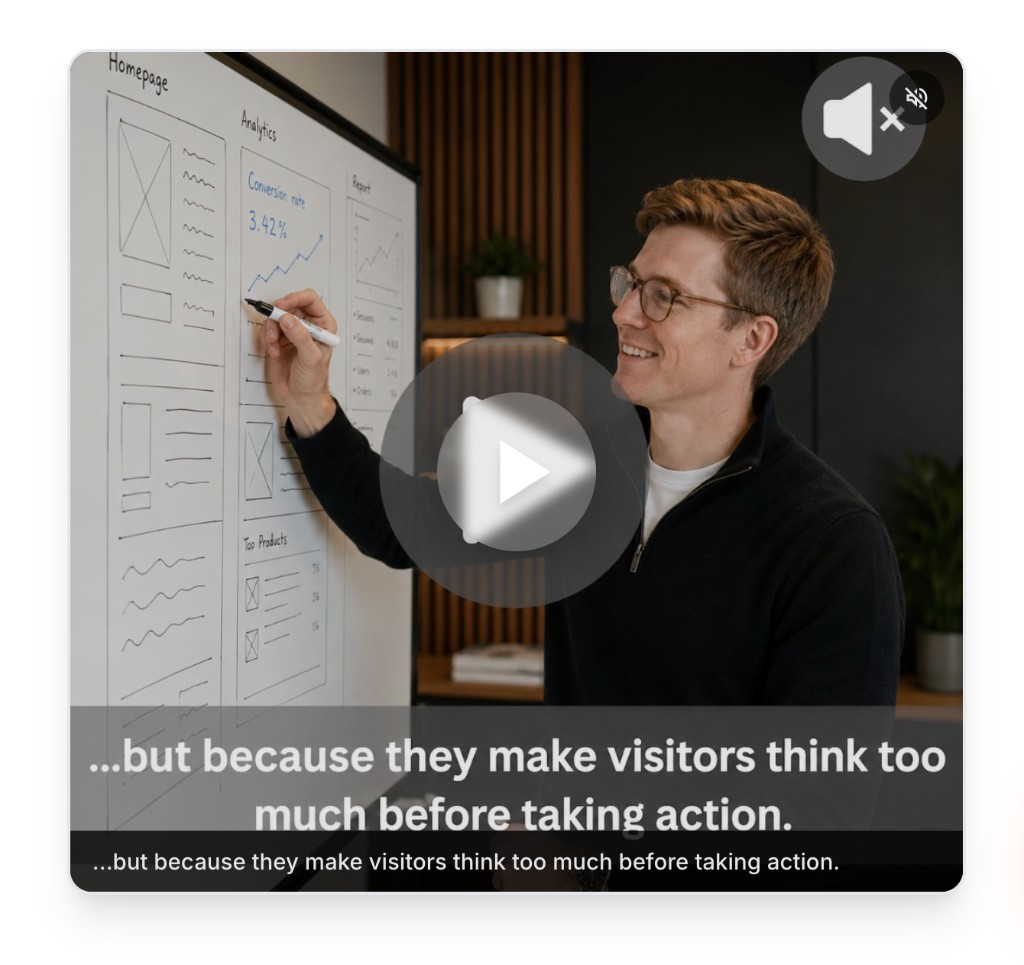
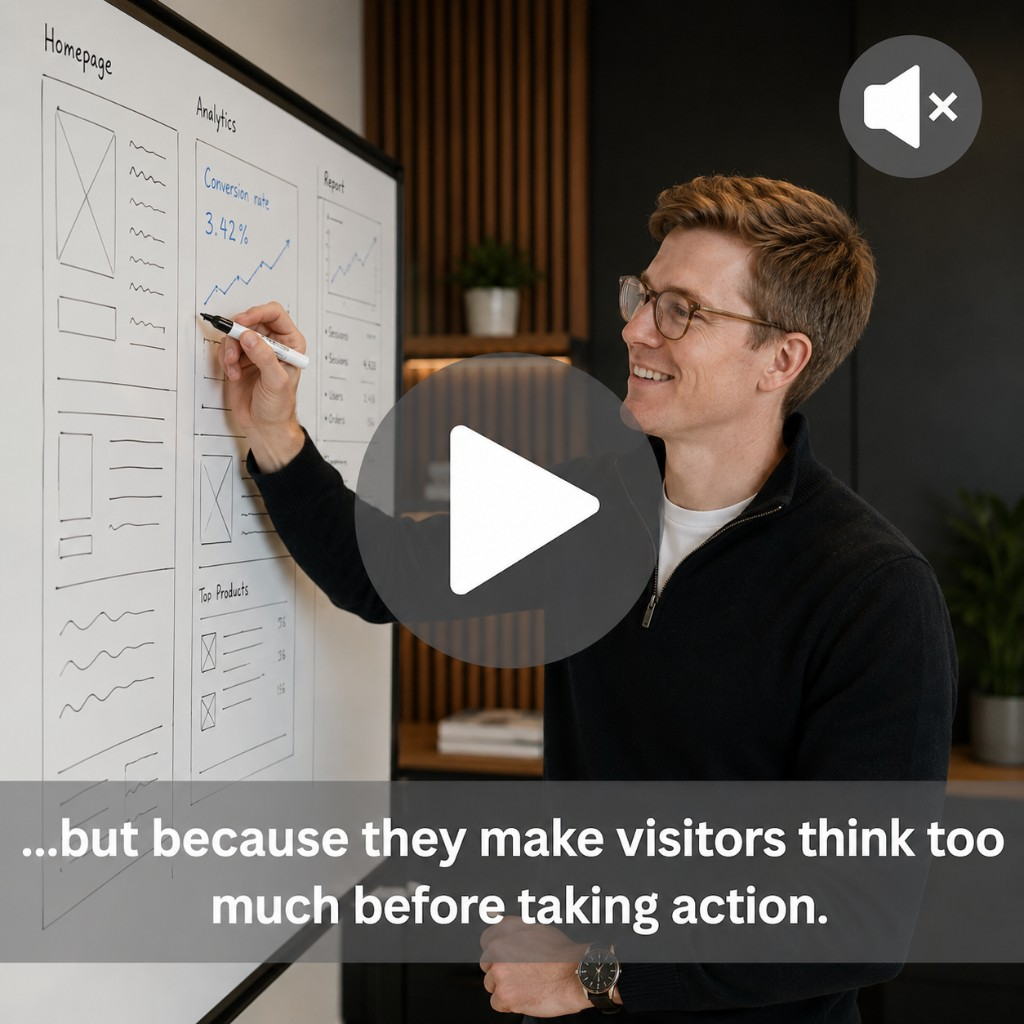
update

diff --git a/app/templates/cro_ebook_vsl_gated.html b/app/templates/cro_ebook_vsl_gated.html
@@ -17,6 +17,12 @@
       Free CRO Audit Walkthrough: How We Find Funnel Leaks | Sparksmetrics
     </title>
     <link rel="icon" type="image/svg+xml" href="/static/favicon.svg" />
+    <link
+      rel="preload"
+      as="image"
+      href="{{ url_for('static', filename='images/vsl-free-cro-video-hero-800.webp') }}"
+      type="image/webp"
+    />
     <link href="https://fonts.googleapis.com" rel="preconnect" />
     <link crossorigin href="https://fonts.gstatic.com" rel="preconnect" />
     <link
@@ -352,14 +358,14 @@
     <!-- End Google Tag Manager (noscript) -->
     {% endif %}
     {% set vsl_video_poster = 'images/vsl-free-cro-video-hero.png' %}
+    {% set vsl_video_poster_webp = 'images/vsl-free-cro-video-hero-800.webp' %}
+    {% set vsl_video_poster_thumb_webp = 'images/vsl-free-cro-video-hero-320.webp' %}
     {% set vsl_video_poster_alt = 'CRO walkthrough: conversion analytics and funnel fixes' %}
-    {% set vsl_video_poster_mobile = 'images/youtube_thumbnails/vsl-free-cro-audit-poster.png' %}
-    {% set vsl_video_poster_mobile_alt = 'How we found $312,000 for a Shopify store' %}
     <section class="bg-white py-12 md:py-16 border-b border-gray-100" id="hero">
       <div class="max-w-7xl mx-auto px-6">
         <div class="grid lg:grid-cols-2 gap-10 lg:gap-14 items-center lg:items-start">
           <div class="order-2 lg:order-1 h-full" id="hero-vsl-shell">
-            {% with vsl_responsive_hero=true, vsl_baked_poster_ui=true, vsl_poster_mobile=vsl_video_poster_mobile, vsl_poster_desktop=vsl_video_poster, vsl_poster_alt_mobile=vsl_video_poster_mobile_alt, vsl_poster_alt_desktop=vsl_video_poster_alt %}{% include 'includes/_vsl_youtube_gated.html' %}{% endwith %}
+            {% with vsl_responsive_hero=true, vsl_baked_poster_ui=true, vsl_wrap_class='w-full overflow-hidden rounded-2xl', vsl_poster_desktop=vsl_video_poster, vsl_poster_desktop_webp=vsl_video_poster_webp, vsl_poster_alt_desktop=vsl_video_poster_alt %}{% include 'includes/_vsl_youtube_gated.html' %}{% endwith %}
           </div>
           <div class="order-1 lg:order-2">
             <div id="hero-copy-to-cta">
@@ -459,7 +465,7 @@
             <div class="logo-item" role="listitem">
               <img
                 class="logo-img"
-                src="{{ url_for('static', filename='images/logos/alle.png') }}"
+                src="{{ url_for('static', filename='images/optimized/logos/alle-48.webp') }}"
                 alt="Alle"
                 loading="lazy"
                 decoding="async"
@@ -469,7 +475,7 @@
             <div class="logo-item" role="listitem">
               <img
                 class="logo-img"
-                src="{{ url_for('static', filename='images/logos/canopy.png') }}"
+                src="{{ url_for('static', filename='images/optimized/logos/canopy-48.webp') }}"
                 alt="Canopy"
                 loading="lazy"
                 decoding="async"
@@ -480,7 +486,7 @@
             <div class="logo-item" role="listitem">
               <img
                 class="logo-img"
-                src="{{ url_for('static', filename='images/logos/argenx.png') }}"
+                src="{{ url_for('static', filename='images/optimized/logos/argenx-48.webp') }}"
                 alt="Argenx"
                 loading="lazy"
                 decoding="async"
@@ -491,7 +497,7 @@
             <div class="logo-item" role="listitem">
               <img
                 class="logo-img"
-                src="{{ url_for('static', filename='images/logos/lpc.png') }}"
+                src="{{ url_for('static', filename='images/optimized/logos/lpc-48.webp') }}"
                 alt="Le Petit Chef"
                 loading="lazy"
                 decoding="async"
@@ -502,7 +508,7 @@
             <div class="logo-item" role="listitem">
               <img
                 class="logo-img"
-                src="{{ url_for('static', filename='images/logos/outdoor-research.png') }}"
+                src="{{ url_for('static', filename='images/optimized/logos/outdoor-research-48.webp') }}"
                 alt="Outdoor Research"
                 loading="lazy"
                 decoding="async"
@@ -513,7 +519,7 @@
             <div class="logo-item" role="listitem">
               <img
                 class="logo-img"
-                src="{{ url_for('static', filename='images/logos/edikted.png') }}"
+                src="{{ url_for('static', filename='images/optimized/logos/edikted-48.webp') }}"
                 alt="Edikted"
                 loading="lazy"
                 decoding="async"
@@ -524,7 +530,7 @@
             <div class="logo-item" role="listitem">
               <img
                 class="logo-img"
-                src="{{ url_for('static', filename='images/logos/vacation-renter.png') }}"
+                src="{{ url_for('static', filename='images/optimized/logos/vacation-renter-48.webp') }}"
                 alt="Vacation Renter"
                 loading="lazy"
                 decoding="async"
@@ -535,7 +541,7 @@
             <div class="logo-item" role="listitem">
               <img
                 class="logo-img"
-                src="{{ url_for('static', filename='images/logos/client-2.png') }}"
+                src="{{ url_for('static', filename='images/optimized/logos/client-2-48.webp') }}"
                 alt="TUSHY"
                 loading="lazy"
                 decoding="async"
@@ -617,15 +623,21 @@
         <figure
           class="rounded-2xl border border-gray-200 shadow-lg bg-white overflow-hidden mb-10"
         >
-          <img
-            src="{{ url_for('static', filename='images/cro-deck-v2/steps/step-04-ux-review-spinelli.png') }}"
-            alt="Full-funnel CRO audit example for Spinelli Kilcollin"
-            class="block w-full h-auto"
-            loading="lazy"
-            decoding="async"
-            width="2692"
-            height="1084"
-          />
+          <picture>
+            <source
+              srcset="{{ url_for('static', filename='images/cro-deck-v2/steps/step-03-ux-review-nooktales-720.webp') }}"
+              type="image/webp"
+            />
+            <img
+              src="{{ url_for('static', filename='images/cro-deck-v2/steps/step-03-ux-review-nooktales.png') }}"
+              alt="Full-funnel CRO audit example for Nooktales"
+              class="block w-full h-auto"
+              loading="lazy"
+              decoding="async"
+              width="720"
+              height="404"
+            />
+          </picture>
         </figure>
         <h2 class="text-4xl md:text-5xl mb-4 text-deep-charcoal text-center">
           What You'll See Inside This
@@ -1580,20 +1592,27 @@
           </p>
         </div>
         <div class="grid md:grid-cols-2 lg:grid-cols-3 gap-6 md:gap-8">
-          {% for slug, case in case_studies_list %}
+          {% for slug, case in case_studies_list[:3] %}
           <div
             class="rounded-3xl overflow-hidden bg-white border border-gray-200 shadow-sm p-0"
           >
             <div class="h-56 overflow-hidden">
               {% if case.main_image %}
-              <img
-                alt="{{ case.card_title|default(case.result_headline) }}"
-                class="w-full h-full object-cover"
-                src="{{ url_for('static', filename=case.main_image) }}"
-                loading="lazy"
-                width="400"
-                height="224"
-              />
+              <picture>
+                <source
+                  srcset="{{ url_for('static', filename=case.main_image|replace('.jpg', '-800.webp')) }}"
+                  type="image/webp"
+                />
+                <img
+                  alt="{{ case.card_title|default(case.result_headline) }}"
+                  class="w-full h-full object-cover"
+                  src="{{ url_for('static', filename=case.main_image) }}"
+                  loading="lazy"
+                  decoding="async"
+                  width="400"
+                  height="224"
+                />
+              </picture>
               {% endif %}
             </div>
             <div class="p-8">
@@ -1670,12 +1689,21 @@
               <div
                 class="absolute inset-0 bg-black/20 blur-2xl group-hover:scale-110 transition-transform"
               ></div>
-              <img
-                alt="{{ vsl_video_poster_alt }}"
-                class="relative rounded-lg shadow-2xl transform rotate-3 group-hover:rotate-0 transition-transform duration-500"
-                src="{{ url_for('static', filename=vsl_video_poster) }}"
-                loading="lazy"
-              />
+              <picture>
+                <source
+                  srcset="{{ url_for('static', filename=vsl_video_poster_thumb_webp) }}"
+                  type="image/webp"
+                />
+                <img
+                  alt="{{ vsl_video_poster_alt }}"
+                  class="relative rounded-lg shadow-2xl transform rotate-3 group-hover:rotate-0 transition-transform duration-500"
+                  src="{{ url_for('static', filename=vsl_video_poster) }}"
+                  loading="lazy"
+                  decoding="async"
+                  width="320"
+                  height="320"
+                />
+              </picture>
             </div>
           </div>
         </div>
@@ -1855,7 +1883,7 @@
           var shell = document.getElementById("hero-vsl-shell");
           if (!copy || !shell) return;
           var wrap = shell.querySelector(".vsl-gated-responsive-hero");
-          if (!wrap || wrap.classList.contains("is-playing")) return;
+          if (!wrap || wrap.classList.contains("is-playing") || wrap.classList.contains("vsl-gated-baked-ui")) return;
           if (window.matchMedia("(min-width: 1024px)").matches) {
             wrap.style.setProperty("--hero-vsl-height", copy.offsetHeight + "px");
             wrap.classList.add("vsl-hero-height-ready");

diff --git a/app/templates/includes/_vsl_youtube_gated.html b/app/templates/includes/_vsl_youtube_gated.html
@@ -18,12 +18,32 @@
 {% set vsl_show_poster_copy = vsl_show_poster_copy|default(true) %}
 {% set vsl_baked_poster_ui = vsl_baked_poster_ui|default(false) %}
 <div
-  class="vsl-gated-wrap vsl-youtube-wrap w-full bg-black overflow-hidden relative group {{ vsl_wrap_class }}{% if vsl_responsive_hero %} vsl-gated-responsive-hero{% if vsl_baked_poster_ui %} vsl-gated-baked-ui{% endif %}{% elif vsl_vertical %} vsl-gated-vertical{% elif vsl_ebook_hero %} vsl-gated-ebook{% else %} aspect-video{% endif %}"
+  class="vsl-gated-wrap vsl-youtube-wrap w-full overflow-hidden relative group {{ vsl_wrap_class }}{% if vsl_baked_poster_ui %} bg-transparent{% else %} bg-black{% endif %}{% if vsl_responsive_hero %} vsl-gated-responsive-hero{% if vsl_baked_poster_ui %} vsl-gated-baked-ui{% endif %}{% elif vsl_vertical %} vsl-gated-vertical{% elif vsl_ebook_hero %} vsl-gated-ebook{% else %} aspect-video{% endif %}"
   data-youtube-id="{{ vsl_youtube_id }}"
   data-video-id="{{ vsl_analytics_id }}"
 >
   <div class="vsl-youtube-poster-wrap absolute inset-0 z-[1]">
     {% if vsl_responsive_hero %}
+    {% if vsl_baked_poster_ui %}
+    <picture>
+      {% if vsl_poster_desktop_webp %}
+      <source
+        srcset="{{ url_for('static', filename=vsl_poster_desktop_webp) }}?v=5"
+        type="image/webp"
+      />
+      {% endif %}
+      <img
+        src="{{ url_for('static', filename=vsl_poster_desktop) }}?v=4"
+        alt="{{ vsl_poster_alt_desktop }}"
+        class="vsl-youtube-poster vsl-poster-desktop absolute inset-0 w-full h-full object-cover object-center"
+        loading="eager"
+        fetchpriority="high"
+        decoding="async"
+        width="800"
+        height="800"
+      />
+    </picture>
+    {% else %}
     <img
       src="{{ url_for('static', filename=vsl_poster_mobile) }}"
       alt="{{ vsl_poster_alt_mobile }}"
@@ -34,7 +54,7 @@
       height="506"
     />
     <img
-      src="{{ url_for('static', filename=vsl_poster_desktop) }}"
+      src="{{ url_for('static', filename=vsl_poster_desktop) }}?v=4"
       alt="{{ vsl_poster_alt_desktop }}"
       class="vsl-youtube-poster vsl-poster-desktop absolute inset-0 w-full h-full object-cover object-center hidden lg:block"
       loading="eager"
@@ -42,6 +62,7 @@
       width="1024"
       height="1024"
     />
+    {% endif %}
     {% if not vsl_baked_poster_ui %}
     <div class="vsl-youtube-poster-copy lg:hidden">
       <p class="vsl-poster-headline">
@@ -74,7 +95,7 @@
   </div>
   <button
     type="button"
-    class="vsl-youtube-play absolute inset-0 z-10 flex items-center justify-center {% if vsl_baked_poster_ui %}max-lg:bg-black/25 max-lg:hover:bg-black/35{% else %}bg-black/25 hover:bg-black/35{% endif %} transition-colors cursor-pointer group/play"
+    class="vsl-youtube-play absolute inset-0 z-10 flex items-center justify-center {% if vsl_baked_poster_ui %}bg-transparent hover:bg-black/5{% else %}bg-black/25 hover:bg-black/35{% endif %} transition-colors cursor-pointer group/play"
     aria-label="Play 4-minute CRO audit video"
     data-vsl-gated-play
     {% if vsl_modal_trigger == 'audit' %}
@@ -90,14 +111,16 @@
     {% endif %}
     {{ vsl_gate_modal_attrs|default('')|safe }}
   >
+    {% if not vsl_baked_poster_ui %}
     <span
-      class="vsl-play-icon{% if vsl_baked_poster_ui %} vsl-play-icon-mobile-only{% endif %} w-16 h-16 sm:w-20 sm:h-20 md:w-24 md:h-24 rounded-full bg-primary flex items-center justify-center shadow-[0_0_40px_rgba(255,77,0,0.5)] hover:scale-110 transition-transform"
+      class="vsl-play-icon w-16 h-16 sm:w-20 sm:h-20 md:w-24 md:h-24 rounded-full bg-primary flex items-center justify-center shadow-[0_0_40px_rgba(255,77,0,0.5)] hover:scale-110 transition-transform"
     >
       <span
         class="material-symbols-outlined play-filled text-white text-3xl sm:text-4xl md:text-5xl ml-1"
         >play_arrow</span
       >
     </span>
+    {% endif %}
   </button>
   <div
     class="vsl-youtube-iframe absolute inset-0 hidden w-full h-full z-[2]"

diff --git a/app/templates/includes/_vsl_youtube_player_styles.html b/app/templates/includes/_vsl_youtube_player_styles.html
@@ -85,23 +85,40 @@
     max-width: 100%;
     width: 100%;
   }
+  .vsl-gated-baked-ui .vsl-youtube-play {
+    background: transparent !important;
+  }
+  .vsl-gated-baked-ui .vsl-youtube-play:hover {
+    background: rgba(0, 0, 0, 0.04) !important;
+  }
+  .vsl-gated-baked-ui .vsl-play-icon,
+  .vsl-gated-baked-ui .vsl-youtube-poster-copy {
+    display: none !important;
+  }
+  .vsl-gated-baked-ui .vsl-poster-desktop {
+    filter: blur(0.6px);
+  }
   @media (min-width: 1024px) {
-    .vsl-gated-baked-ui .vsl-poster-desktop {
-      filter: blur(0.4px);
-      object-fit: contain;
-      object-position: center;
+    .vsl-gated-baked-ui.vsl-gated-responsive-hero {
+      height: auto !important;
+      min-height: 0;
+      aspect-ratio: 1 / 1;
+      box-shadow: none !important;
+      border: none !important;
+      background: transparent !important;
     }
-    .vsl-gated-baked-ui .vsl-youtube-play {
+    .vsl-gated-baked-ui .vsl-youtube-poster-wrap {
       background: transparent;
     }
-    .vsl-gated-baked-ui .vsl-youtube-play:hover {
-      background: rgba(0, 0, 0, 0.05);
+    .vsl-gated-baked-ui .vsl-poster-desktop {
+      object-fit: cover;
+      object-position: center;
     }
-    .vsl-gated-baked-ui .vsl-play-icon-mobile-only {
-      display: none;
-    }
-    .vsl-gated-baked-ui .vsl-youtube-poster-copy {
-      display: none !important;
+  }
+  @media (max-width: 1023px) {
+    .vsl-gated-baked-ui.vsl-gated-responsive-hero {
+      aspect-ratio: 1 / 1;
+      background: transparent !important;
     }
   }
   @media (min-width: 1024px) {

diff --git a/app/templates/includes/_lead_modal_vsl_simple.html b/app/templates/includes/_lead_modal_vsl_simple.html
@@ -23,14 +23,21 @@
       <div
         class="relative bg-black shrink-0 w-full sm:w-[38%] sm:max-w-[240px] aspect-[9/16] sm:aspect-auto sm:min-h-[380px] max-h-[200px] sm:max-h-none overflow-hidden"
       >
-        <img
-          src="{{ url_for('static', filename=vsl_video_poster|default('images/vsl-free-cro-video-hero.png')) }}"
-          alt="{{ vsl_video_poster_alt|default('Shopify conversion analytics walkthrough with Stijn Wollerich') }}"
-          class="absolute inset-0 w-full h-full object-cover object-center"
-          loading="lazy"
-          width="681"
-          height="1024"
-        />
+        <picture>
+          <source
+            srcset="{{ url_for('static', filename=vsl_video_poster_thumb_webp|default('images/vsl-free-cro-video-hero-320.webp')) }}"
+            type="image/webp"
+          />
+          <img
+            src="{{ url_for('static', filename=vsl_video_poster|default('images/vsl-free-cro-video-hero.png')) }}"
+            alt="{{ vsl_video_poster_alt|default('Shopify conversion analytics walkthrough with Stijn Wollerich') }}"
+            class="absolute inset-0 w-full h-full object-cover object-center"
+            loading="lazy"
+            decoding="async"
+            width="240"
+            height="380"
+          />
+        </picture>
       </div>
 
       <div id="lead-form-state" class="flex-1 p-7 md:p-9 relative min-w-0">
